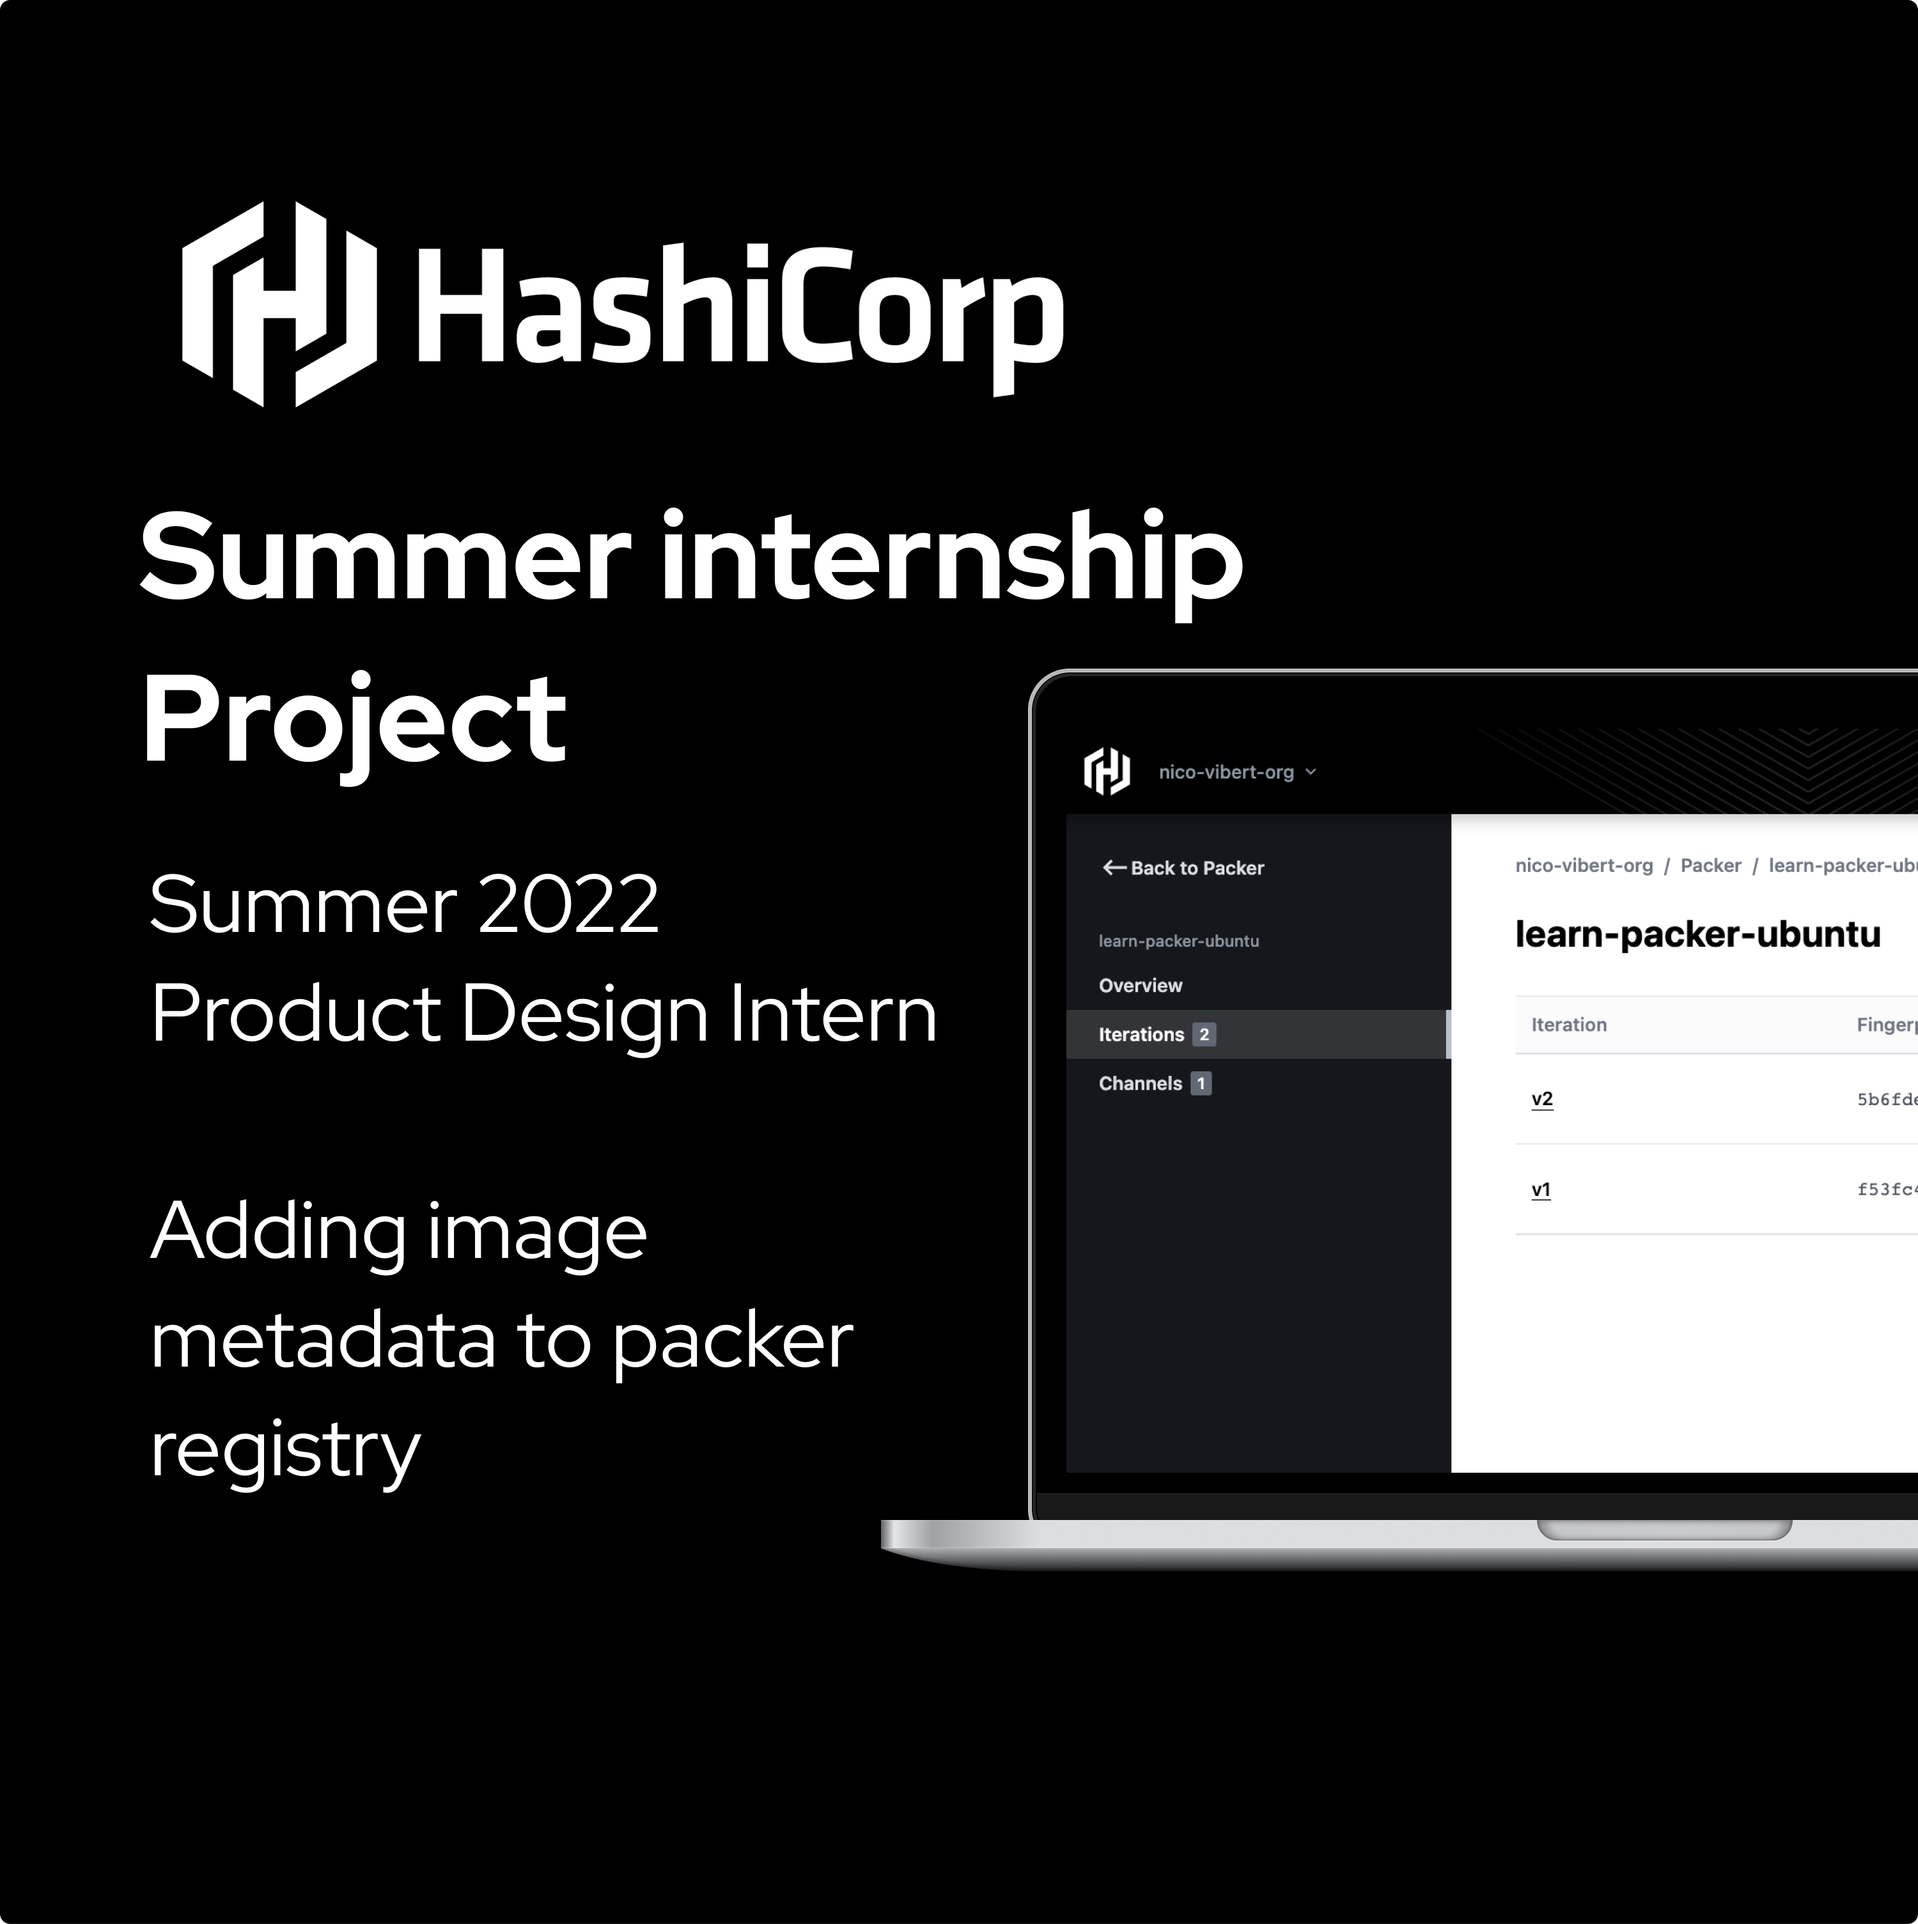
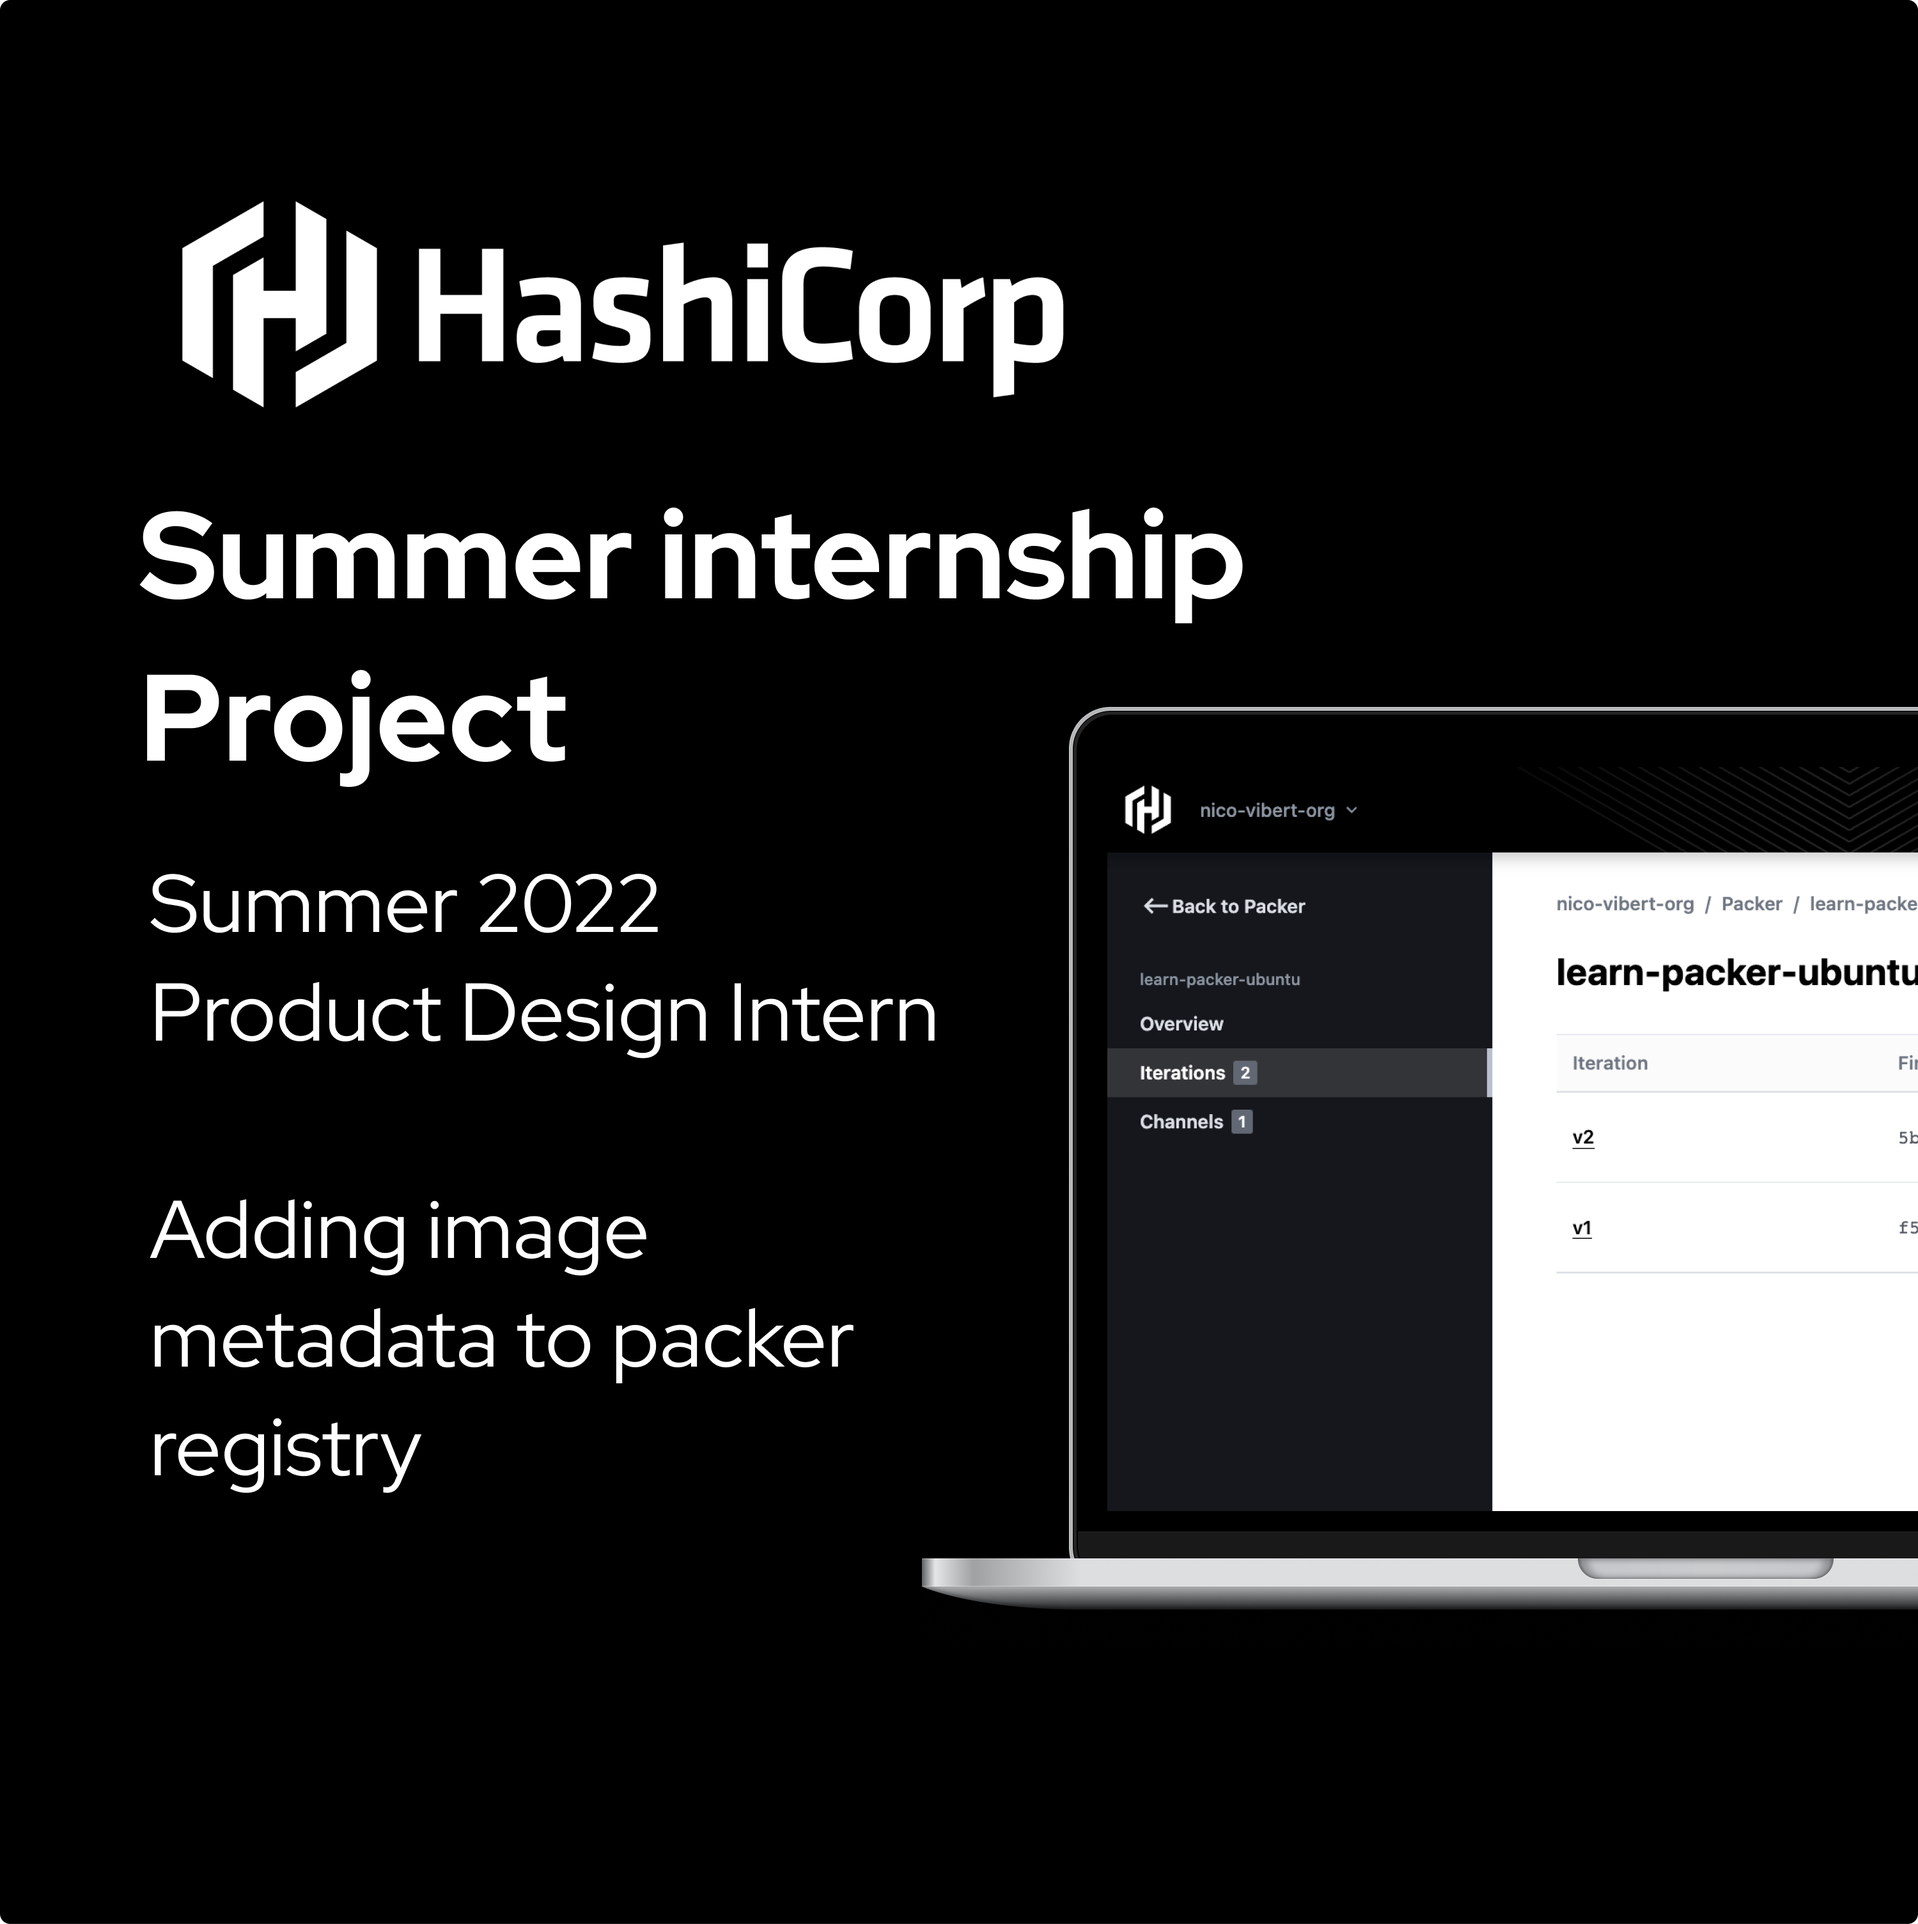
Small cover art changes

Changed region(s): [[0.465, 0.3435, 1.0, 0.8432]]

diff --git a/index.html b/index.html
@@ -100,7 +100,7 @@
         <div class="grid-item"><a href="./files/ccomparison/ccomparison.html"> <img src = "./images/CCmobile.png"> </a> </div>
         <div class="grid-item"><a href="./files/tables.html"> <img src = "./images/itablesmobile.png"> </a></div>  
         <div class="grid-item"><a href="./files/dataimport.html"> <img src = "./images/dataauditmobile.png"> </a></div>
-        <div class="grid-item"><a href="./files/hashi.html"> <img src = "./images/DFAmobile.png"> </a> </div>
+        <div class="grid-item"><a href="./files/hashi.html"> <img src = "./images/hashimobike.png"> </a> </div>
         <div class="grid-item"><a href="./files/integrate.html"> <img  src = "./images/integrationsmobile.png"> </a></div>  
         <div class="grid-item"><a href="./files/archive.html"> <img  src = "./images/archive mobile.png"> </a></div>  
       </div>
